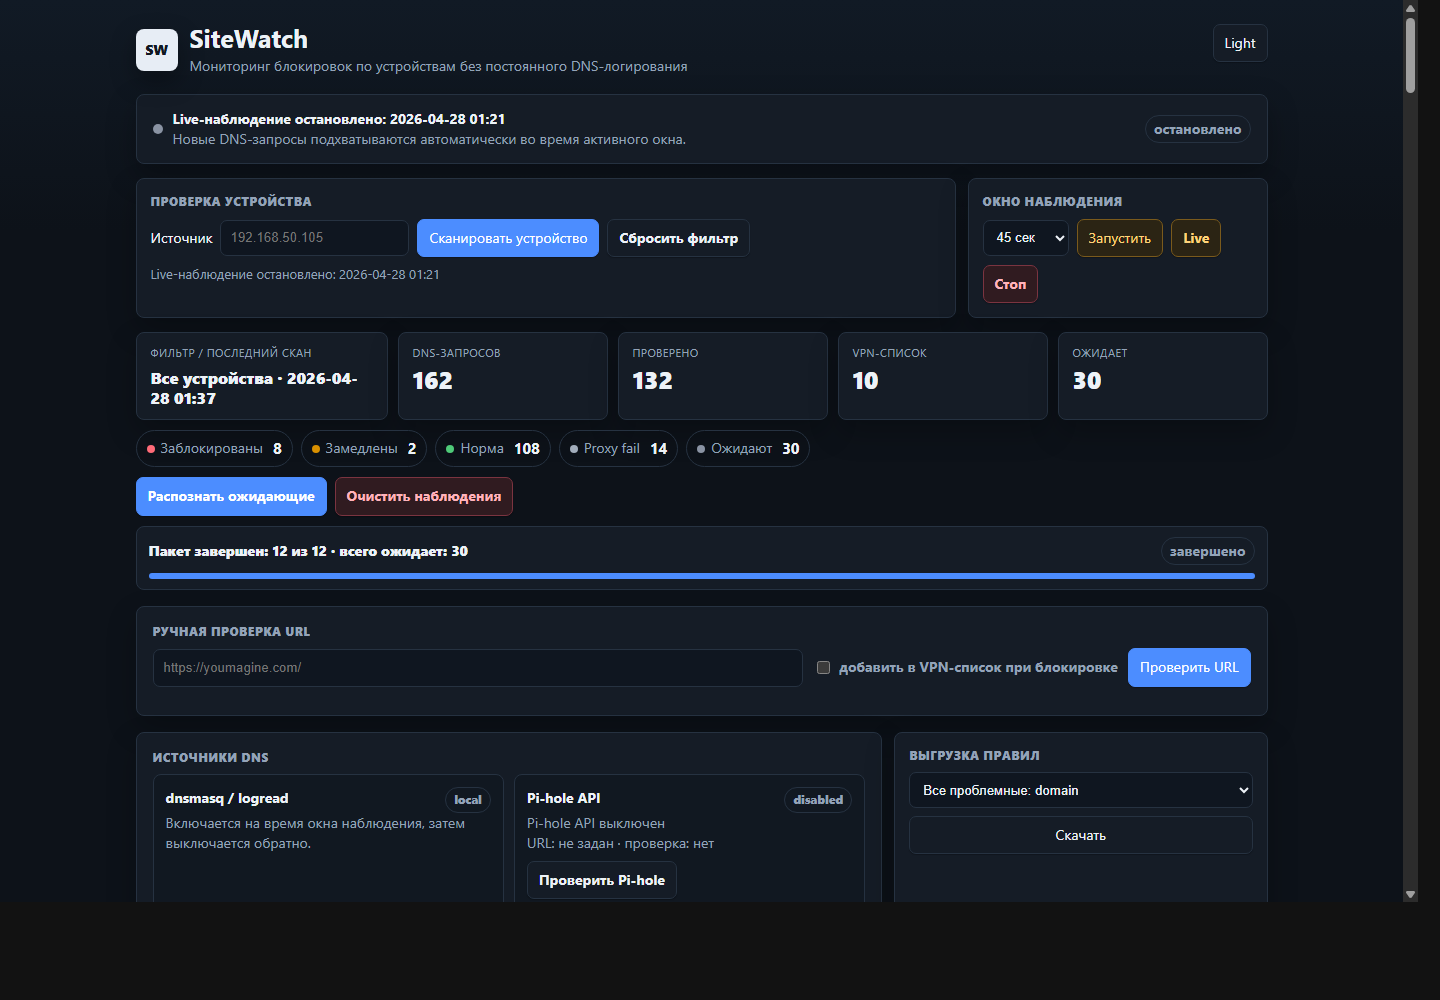
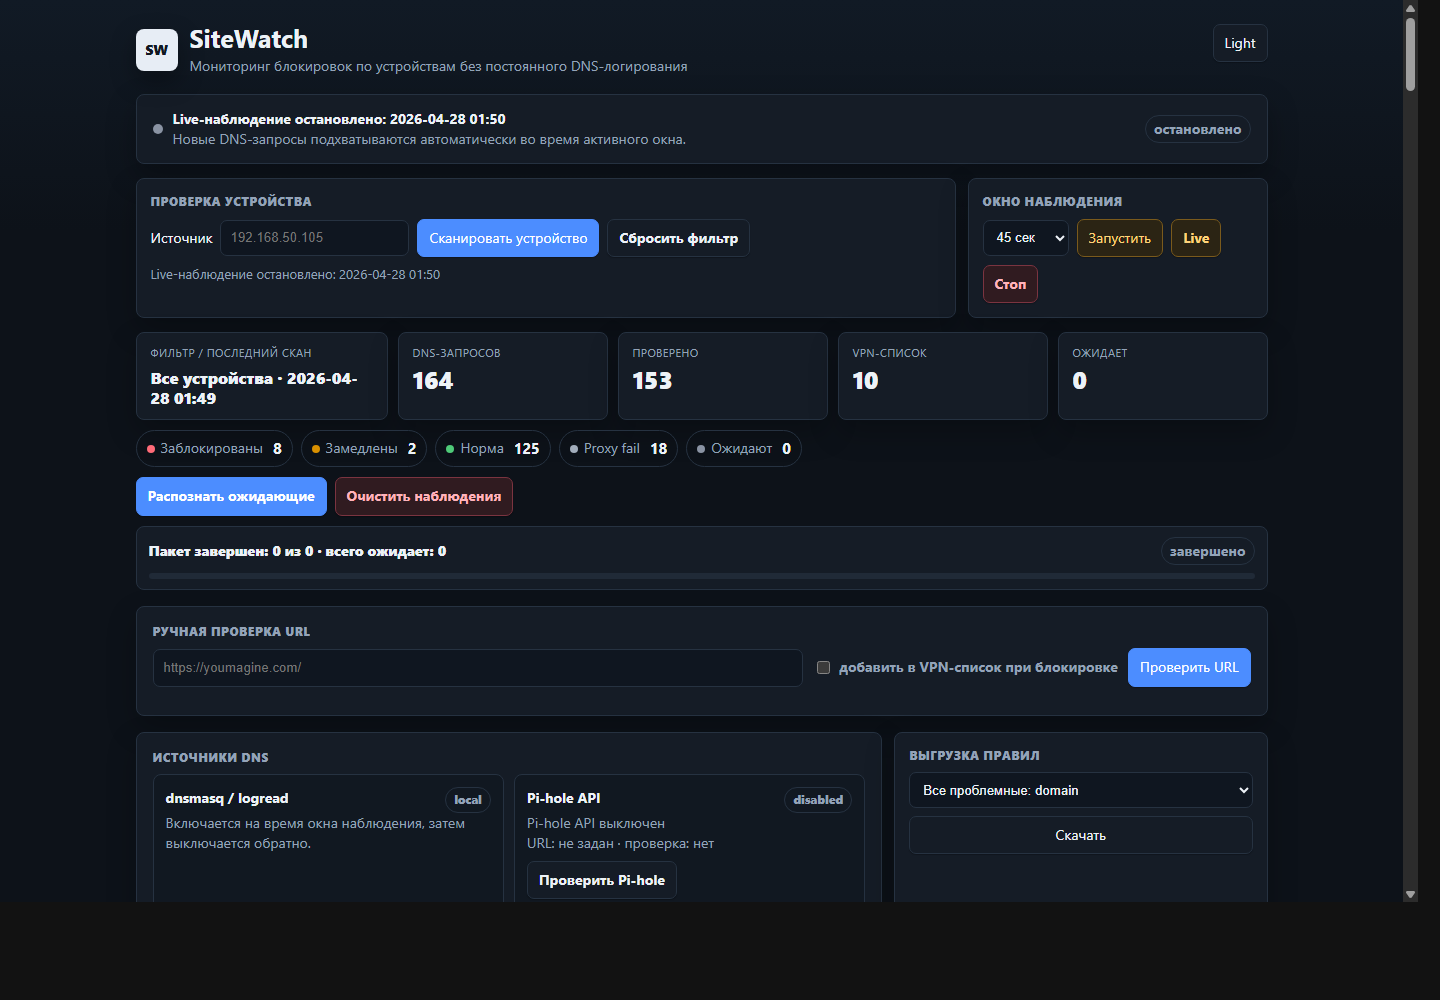
Speed up scanning and simplify table controls

diff --git a/cmd/sitewatch/main.go b/cmd/sitewatch/main.go
@@ -17,6 +17,7 @@ import (
 	"sort"
 	"strconv"
 	"strings"
+	"sync"
 	"time"
 	"unicode"
 )
@@ -29,6 +30,7 @@ type config struct {
 	ScanStatus      string
 	Proxy           string
 	Batch           int
+	Workers         int
 	Timeout         time.Duration
 	MinRescan       time.Duration
 	SlowSeconds     float64
@@ -151,6 +153,7 @@ func loadConfig() config {
 		ScanStatus:      getStr(values, "SITEWATCH_SCAN_STATUS", "/tmp/sitewatch-scan.status"),
 		Proxy:           getStr(values, "SITEWATCH_PROXY", "socks5h://127.0.0.1:20170"),
 		Batch:           getInt(values, "SITEWATCH_BATCH", 12),
+		Workers:         getInt(values, "SITEWATCH_SCAN_WORKERS", 4),
 		Timeout:         time.Duration(getInt(values, "SITEWATCH_TIMEOUT", 7)) * time.Second,
 		MinRescan:       time.Duration(getInt(values, "SITEWATCH_MIN_RESCAN", 86400)) * time.Second,
 		SlowSeconds:     getFloat(values, "SITEWATCH_SLOW_SECONDS", 5),
@@ -315,49 +318,81 @@ func cmdScan(cfg config) error {
 		return nil
 	}
 
-	for idx, item := range domains {
-		writeScanStatus(cfg, "running", now, len(domains), idx, item.Domain)
-		result, err := checkURL(cfg, "https://"+item.Domain+"/", false)
-		if err != nil {
-			continue
-		}
-		results[result.Domain] = resultEntry{
-			Domain:     result.Domain,
-			Source:     item.Source,
-			Count:      item.Count,
-			Status:     result.Status,
-			DirectCode: result.Direct.Code,
-			DirectTime: fmt.Sprintf("%.6f", result.Direct.Time),
-			ProxyCode:  result.Proxy.Code,
-			ProxyTime:  fmt.Sprintf("%.6f", result.Proxy.Time),
-			Scanned:    now,
-			DPIStatus:  dpiSummary(result.DPI),
-		}
-		maybeAddProxyDomain(cfg, result.Domain, result.Status)
+	workers := cfg.Workers
+	if workers < 1 {
+		workers = 1
+	}
+	if workers > len(domains) {
+		workers = len(domains)
+	}
+	jobs := make(chan seenEntry)
+	var wg sync.WaitGroup
+	var mu sync.Mutex
+	done := 0
+	for worker := 0; worker < workers; worker++ {
+		wg.Add(1)
+		go func() {
+			defer wg.Done()
+			for item := range jobs {
+				mu.Lock()
+				writeScanStatus(cfg, "running", now, len(domains), done, item.Domain)
+				mu.Unlock()
 
-		if cfg.CheckBaseDomain && (result.Status == "blocked" || result.Status == "slow") {
-			base := baseDomain(result.Domain)
-			if base != "" && base != result.Domain {
-				baseResult, err := checkURL(cfg, "https://"+base+"/", false)
+				result, err := checkURL(cfg, "https://"+item.Domain+"/", false)
 				if err == nil {
-					results[baseResult.Domain] = resultEntry{
-						Domain:     baseResult.Domain,
+					mu.Lock()
+					results[result.Domain] = resultEntry{
+						Domain:     result.Domain,
 						Source:     item.Source,
 						Count:      item.Count,
-						Status:     baseResult.Status,
-						DirectCode: baseResult.Direct.Code,
-						DirectTime: fmt.Sprintf("%.6f", baseResult.Direct.Time),
-						ProxyCode:  baseResult.Proxy.Code,
-						ProxyTime:  fmt.Sprintf("%.6f", baseResult.Proxy.Time),
+						Status:     result.Status,
+						DirectCode: result.Direct.Code,
+						DirectTime: fmt.Sprintf("%.6f", result.Direct.Time),
+						ProxyCode:  result.Proxy.Code,
+						ProxyTime:  fmt.Sprintf("%.6f", result.Proxy.Time),
 						Scanned:    now,
-						DPIStatus:  dpiSummary(baseResult.DPI),
+						DPIStatus:  dpiSummary(result.DPI),
 					}
-					maybeAddProxyDomain(cfg, baseResult.Domain, baseResult.Status)
+					maybeAddProxyDomain(cfg, result.Domain, result.Status)
+					mu.Unlock()
+
+					if cfg.CheckBaseDomain && (result.Status == "blocked" || result.Status == "slow") {
+						base := baseDomain(result.Domain)
+						if base != "" && base != result.Domain {
+							baseResult, err := checkURL(cfg, "https://"+base+"/", false)
+							if err == nil {
+								mu.Lock()
+								results[baseResult.Domain] = resultEntry{
+									Domain:     baseResult.Domain,
+									Source:     item.Source,
+									Count:      item.Count,
+									Status:     baseResult.Status,
+									DirectCode: baseResult.Direct.Code,
+									DirectTime: fmt.Sprintf("%.6f", baseResult.Direct.Time),
+									ProxyCode:  baseResult.Proxy.Code,
+									ProxyTime:  fmt.Sprintf("%.6f", baseResult.Proxy.Time),
+									Scanned:    now,
+									DPIStatus:  dpiSummary(baseResult.DPI),
+								}
+								maybeAddProxyDomain(cfg, baseResult.Domain, baseResult.Status)
+								mu.Unlock()
+							}
+						}
+					}
 				}
+
+				mu.Lock()
+				done++
+				writeScanStatus(cfg, "running", now, len(domains), done, item.Domain)
+				mu.Unlock()
 			}
-		}
-		writeScanStatus(cfg, "running", now, len(domains), idx+1, item.Domain)
+		}()
 	}
+	for _, item := range domains {
+		jobs <- item
+	}
+	close(jobs)
+	wg.Wait()
 
 	if err := writeResults(cfg.Results, results); err != nil {
 		writeScanStatus(cfg, "error", now, len(domains), len(domains), "")
